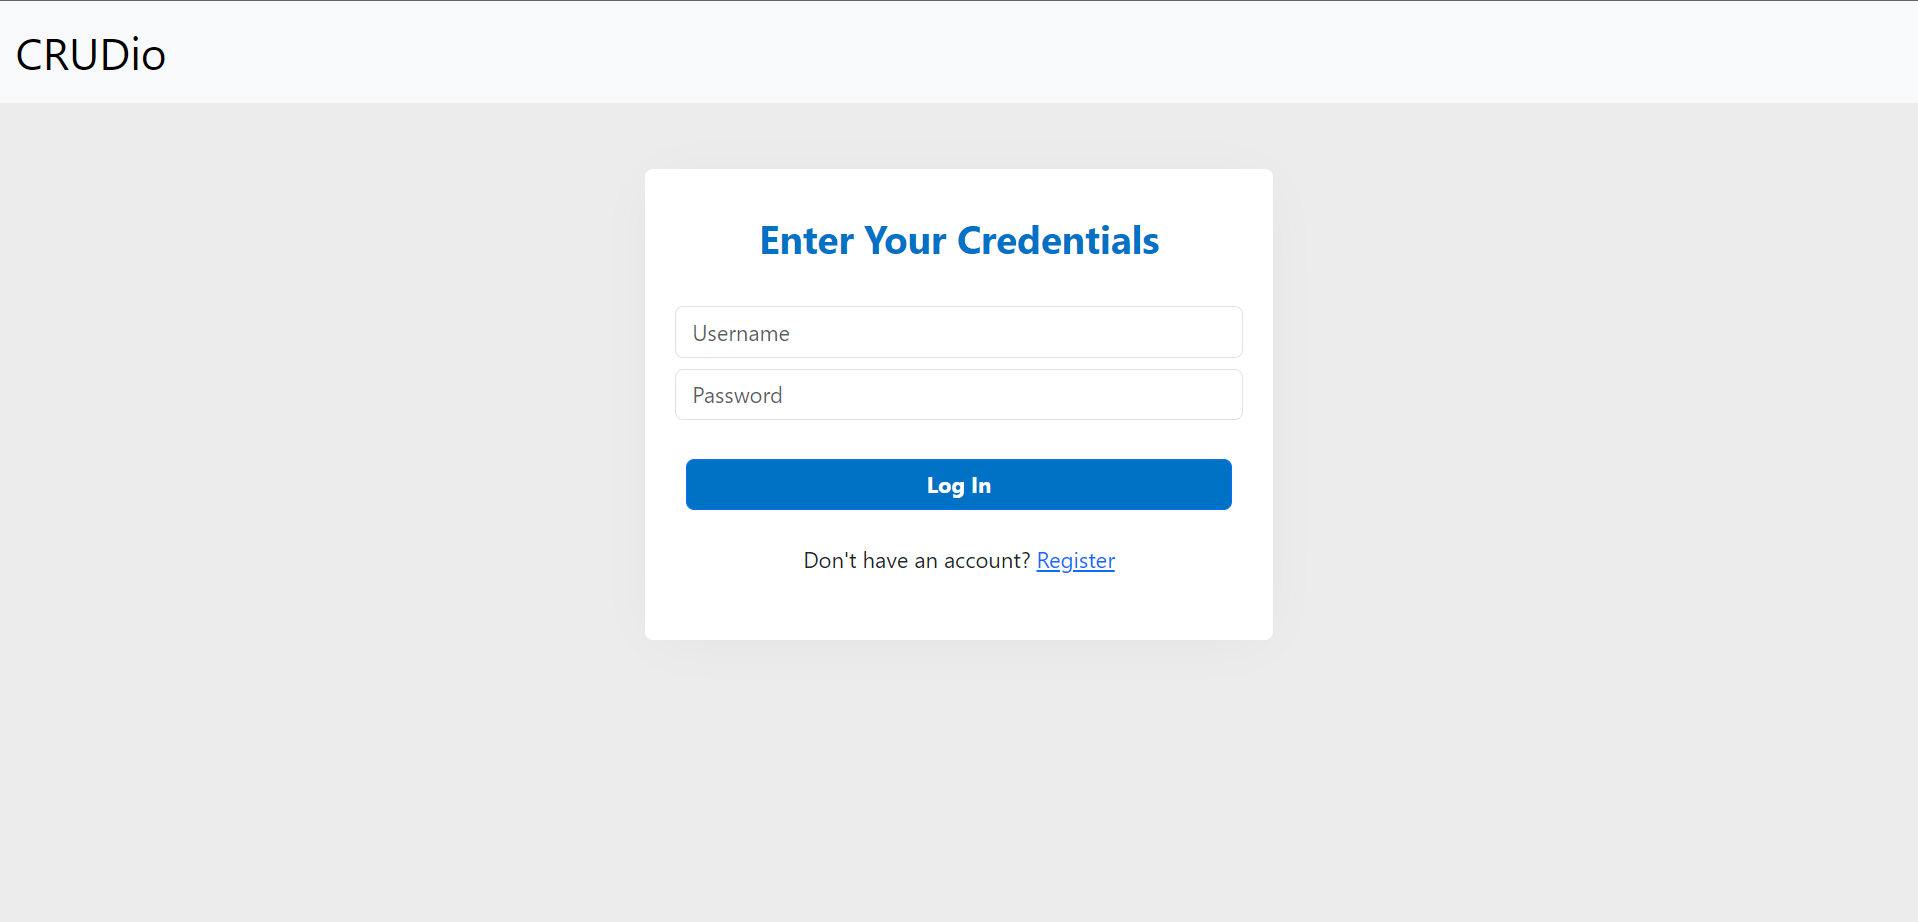
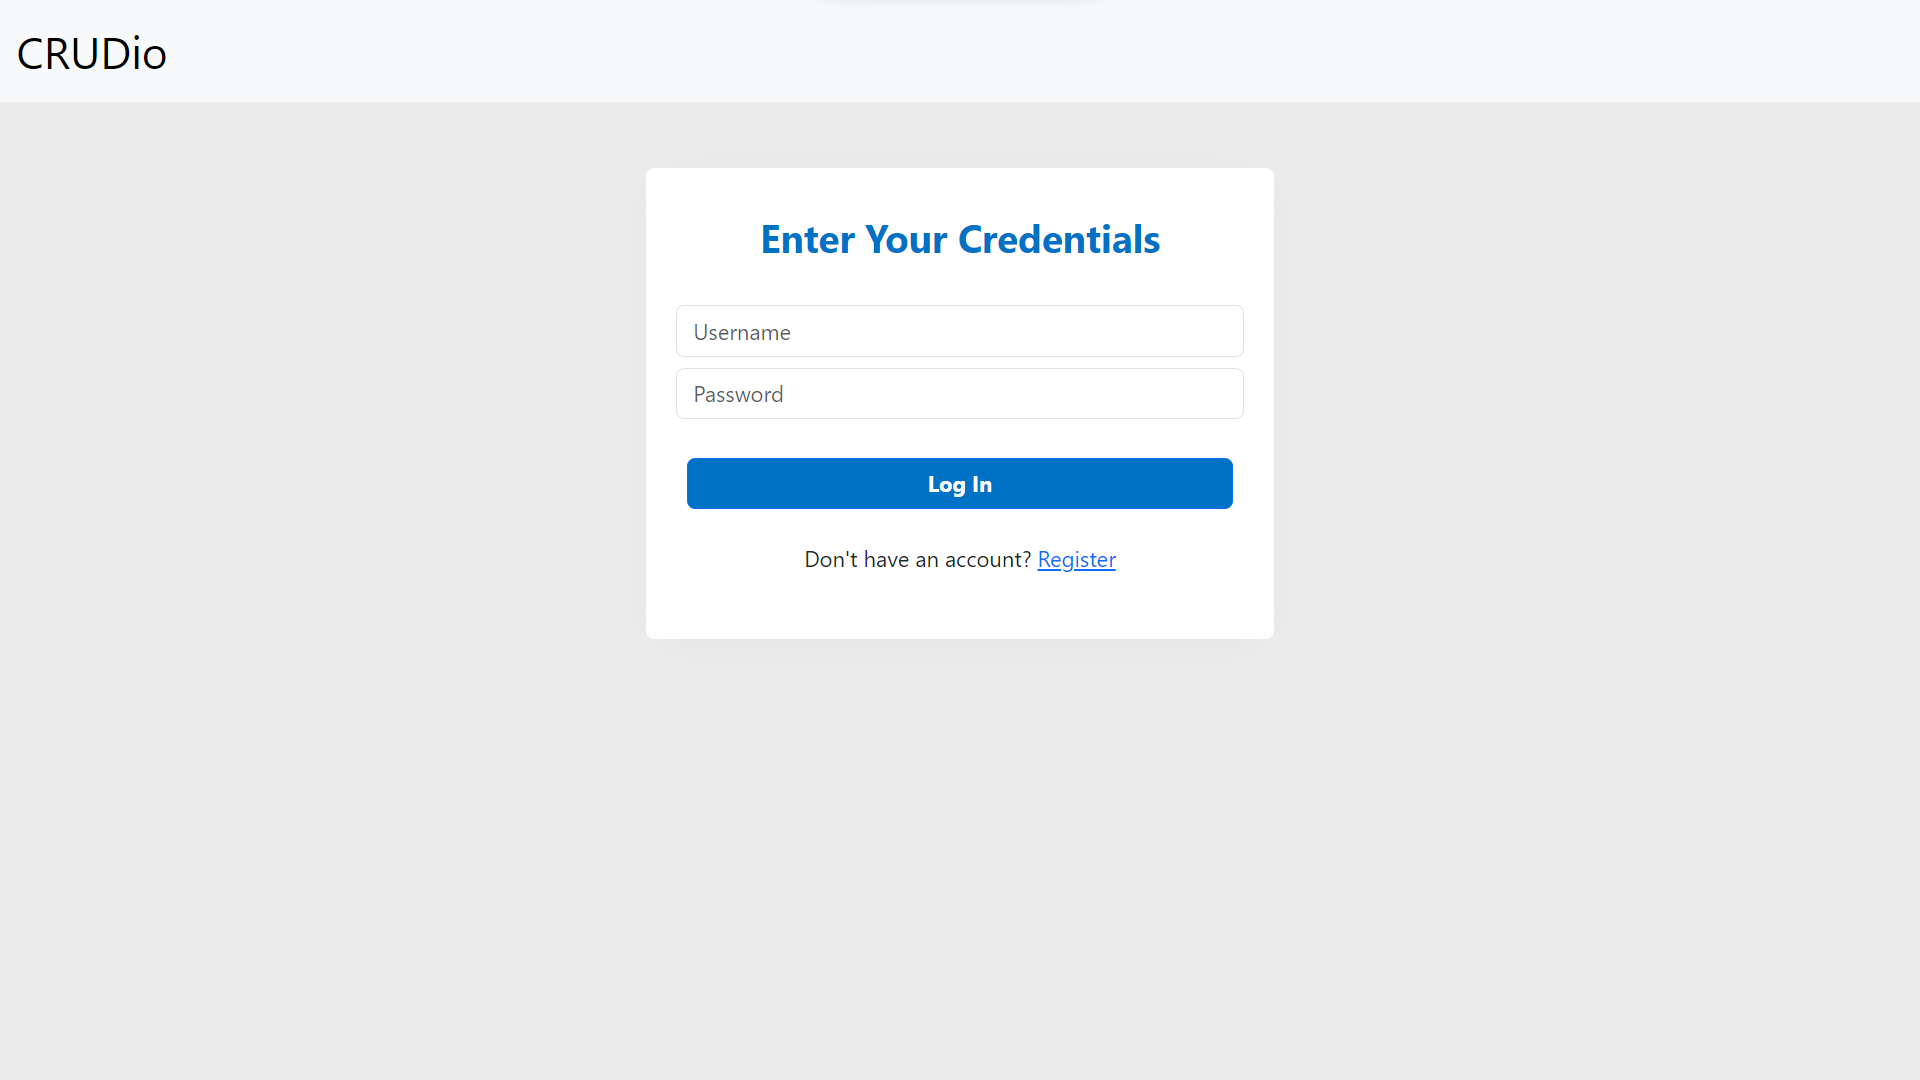
Fixed Readme

diff --git a/README.md b/README.md
@@ -12,14 +12,14 @@ where in each database the user could have a number of tables to their desire, w
 ### **Upcoming explanation is provided in the video linked above.**
 
 ---
-![[Pasted image 20230729150634.png]]
+<img src="/Images/Log in.png"><br>
 **First** of all the user is prompted with the log in page, the user has to enter the credentials of their account if one does exist, incorrect credentials will prompt the user with an alert explaining what criterion was not met.
 
 **If** the user doesn't already have an account they will need to register an account, to access the register page the user just simply clicks on the **Register** Link below the **Log In** button.
 
 ---
 
-![[Pasted image 20230729150601.png]]
+<img src="/Images/Register.png"><br>
 
 **Register** page is then rendered for the user, the user now has to input all of the required fields to create a valid account, there are certain criteria that must be met, failing to meet any of them will result in an alert explaining what criterion wasn't met.
 
@@ -29,19 +29,19 @@ Criteria:
 - Password is at least 8 characters long
 - Password and the confirmation match
 
-![[Pasted image 20230729150643.png]]
+<img src="/Images/HomePage.png"><br>
 **After** the user successfully logs in or register an account, they are redirected to the homepage, the homepage is where all the databases of user are available, and where the user can create or delete databases, the page consists of small form, the select menu automatically populates with all the available databases of the user, to access the database click on it from the select menu and hit the select button. 
 
 **For** a fresh account there will be no databases, therefore no options to select from in the select menu, to create a database hit the green create button, if a user wants to delete an existing database simply hit the red delete button.
 
 ---
-![[Pasted image 20230729150651.png]]
+<img src="/Images/CreateDB.png"><br>
 **The** user will then proceed to insert the desired name and press create, the user must enter a name or they will be prompted with an alert, the database name must be different from already existing databases for the user.
 
 **If** the user decides not to create a database and wants to back to the homepage, simply click on the home button in the **Navbar** in the top left corner.
 
 ---
-![[Pasted image 20230729150656.png]]
+<img src="/Images/DeleteDB.png"><br>
 <div style="text-align: justify; text-justify: inter-word;">
 <b>If</b> a user does prefer to delete a database, after clicking the red delete button from the homepage, the user will be redirected to the delete page for extra caution, the user now will select the database they want to erase from the select menu then hit delete database, the user will then be redirected to the homepage. 
 </div>
@@ -51,11 +51,11 @@ Criteria:
 **If** the user decides not to create a database and wants to back to the homepage, simply click on the home button in the **Navbar** in the top left corner.
 
 ---
-![[Pasted image 20230729150700.png]]
+<img src="/Images/EditDB.png"><br>
  After the user selects a database from the homepage they will be redirected to the edit database page, this is where the data handling will happen, the user can select in similar fashion a table from the selected database to edit, the user can also delete an existing table, or create a new table.
 
 ---
-![[Pasted image 20230729150711.png]]
+<img src="/Images/CreateTB.png"><br>
 <div style="text-align: justify; text-justify: inter-word;">
 If the user clicks the <b>Create Table</b> button they will be redirected to the table creation page, the page will include a simple form requiring the name and the number of columns of the table.
 <br><br>
@@ -68,7 +68,7 @@ If the user clicks the <b>Create Table</b> button they will be redirected to the
 <b>The</b> user will begin filling the columns' info, <b>Column name must not start with a number</b>, and if no exact datatype is selected then the datatype will be defaulted to text.
 </div>
 ---
-![[Pasted image 20230730011432.png]]
+<img src="/Images/DeleteTB.png"><br>
 <div style="text-align: justify; text-justify: inter-word;">
 <b>If</b> the user clicked on the <b>Delete Table</b> button they will be redirected to the delete table page, the user will proceed to select the table they want to delete from the select menu and hit Delete.
 <br><br>
@@ -77,7 +77,7 @@ If the user clicks the <b>Create Table</b> button they will be redirected to the
 <b>After</b> hitting Delete the user is redirected to the edit database page again.
 </div>
 ---
-![[Pasted image 20230729150723.png]]
+<img src="/Images/table.png"><br>
 <div style="text-align: justify; text-justify: inter-word;">
 <b>In</b> the edit database page, you can select the table you want to edit, after clicking the  <b>Select</b> button the table is automatically loaded into the page, all freshly created tables will have an empty first row.
 <br><br>
@@ -93,7 +93,7 @@ If the user clicks the <b>Create Table</b> button they will be redirected to the
 
 </div>
 ---
-![[Pasted image 20230729150730.png]]
+<img src="/Images/DatabaseMenu.png"><br>
 <div style="text-align: justify; text-justify: inter-word;">
 <b>If</b> the user wants to select another database to edit it, they can click the home button in the top left of the <b>Navigation Bar</b> to go to the homepage, or they could use the database menu also found in the <b>Navigation Bar</b> in the top left of the screen, where all databases for the current user are displayed, click the desired database to activate and start editing it.
 </div>
